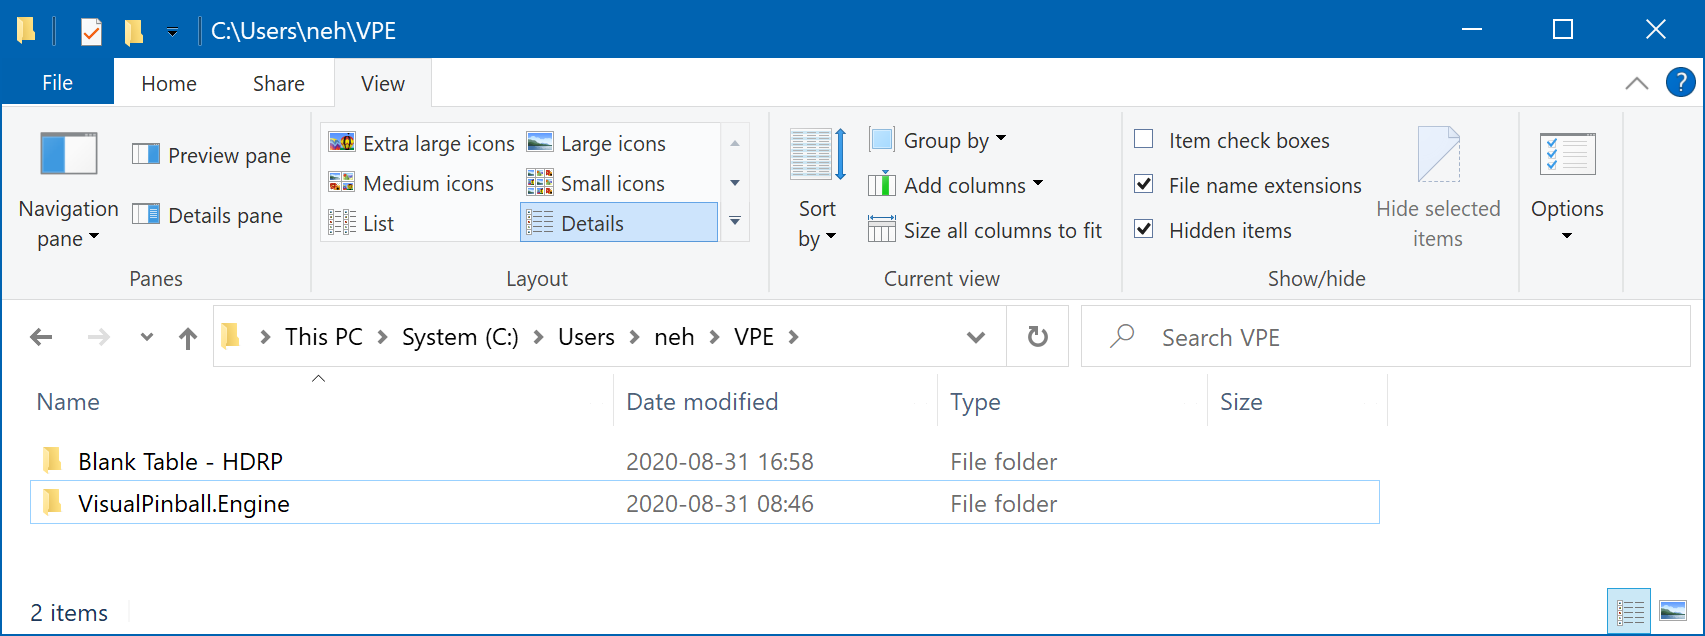
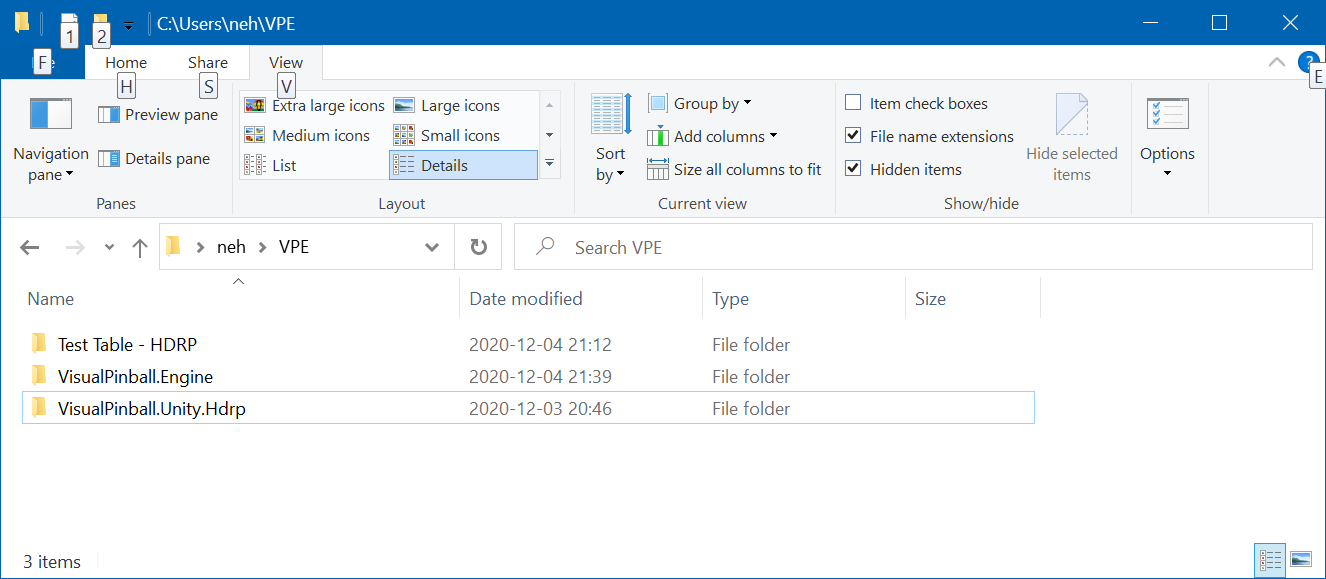
rp: Update documentation.

diff --git a/VisualPinball.Unity/Documentation~/creators-guide/setup/running-vpe.md b/VisualPinball.Unity/Documentation~/creators-guide/setup/running-vpe.md
@@ -9,17 +9,22 @@ You should now see Visual Pinball's blank table in the Editor's scene view:
 
 ![Imported blank table](unity-imported-table.png)
 
-Now, we don't see much of our table. That's because the scene view's camera doesn't really point on it. Using the right mouse button and the `A` `W` `S` `D` keys while keeping right mouse button pressed, fly somewhere you have a better view of the table.
+Now, we don't see much of our table. That's because the scene view's camera doesn't really point on it. Using the right mouse button in the *Scene View* and the `A` `W` `S` `D` keys while keeping right mouse button pressed, fly somewhere you have a better view of the table.
 
 > [!TIP]
 > Check Unity's documentation on [Scene view navigation](https://docs.unity3d.com/Manual/SceneViewNavigation.html) for a more complete list of ways to move the camera around the scene.
 
-Now that you have the camera of the scene view somewhat aligned.
+Now that we have the camera of the scene view somewhat aligned, we still can't see much!
+
+![Imported blank table](unity-imported-table-ugly-gizmos.png)
+
+These orange artifacts is what Unity calls [Gizmos](https://docs.unity3d.com/Manual/GizmosMenu.html). They are enabled by default, and since VPE uses icons for its playfield elements, they are all over the place. In order to get rid of them, click on the *Gizmos* dropdown and de-select them by clicking on the icon next to the check box. Sorry, we're looking into a way of deactivating them automatically.
+
+Since a pinball table is a relatively small object, the icons are huge when working on a table, so you the top slide to shrink them down a bit.
 
 ![Scene view camera on table](unity-imported-table-aligned.png)
 
-> [!TIP]
-> A pinball table is a relatively small object, so Unity's "gizmo" icons marking scene objects are huge. You can make them smaller with the [Gizmos menu](https://docs.unity3d.com/Manual/GizmosMenu.html) by using the *3D Icons* slider.
+Now that's better!
 
 The view in the scene tab is not the camera used in game. The *Scene View* really allows you to fly anywhere, zoom in on things you're working on, switch from orthagonal view to perspective, and so on. It's where you get work done.
 
@@ -30,11 +35,17 @@ This camera can be moved [using Unity's gizmos](https://docs.unity3d.com/Manual/
 > [!TIP]
 > A quick way to fix the game camera is to align it with the scene view camera. To do that, select the camera in the hierarchy, then click on the *GameObject* menu and select *Align with view*.
 
-Now, click on the play button. This will run your scene. Test that the shift keys move the flippers. Press `B` to add a new ball. If it's not already choppy, it will get after a dozen or so balls, because VPE currently doesn't destroy them.
+One last thing we need to do before playing is enable version 2 of the [Hybrid Renderer](https://docs.unity3d.com/Packages/com.unity.rendering.hybrid@0.10/manual/index.html) we're using. Go to *Edit -> Project Settings*, select *Player* on the left, scroll down a bit on the right and add `ENABLE_HYBRID_RENDERER_V2` under *Script Define Symbols*. Then click on *Apply* and close the window.
 
-The choppiness is also due to running the game inside the editor, fetching data during gameplay, and the code not being optimized.
+![Enable hybrid renderer](unity-settings-hybridv2.png)
 
-This should all go away if you choose *Build and Run* under the *File* menu. Running it as "build" should give you significantly smoother gameplay.
+Now, click on the play button. This will run your scene. Test that the shift keys move the flippers. `ENTER` will launch a ball. If you expand *Table1* in the hierarchy and select the *Trough*, you can watch its status in the inspector in real time. Nice!
+
+You can also right-click on the scene view tab and select *Maximize*.
+
+![Play Mode](unity-first-play.png)
 
 > [!TIP]
 > If you want to enter play mode more quickly, you can check the experimental play mode option described [here](https://blogs.unity3d.com/2019/11/05/enter-play-mode-faster-in-unity-2019-3/).
+
+One last thing: The game view is pretty static now. You can change that by dropping an [orbit script](https://gist.github.com/freezy/cd6a2371c90a84a7af850cab3b07b1ed) on the camera that lets you rotate and zoom in. If you're a Unity beginner, that would be your first exercise!

diff --git a/VisualPinball.Unity/Documentation~/creators-guide/setup/installing-vpe.md b/VisualPinball.Unity/Documentation~/creators-guide/setup/installing-vpe.md
@@ -45,21 +45,21 @@ If you create an HDRP project, Unity provides you with a sample scene:
 
 ![HDRP Sample Scene](unity-hdrp-default-scene.png)
 
-It's best to start by removing the unneeded objects. In the hierarchy, select:
+The sample scene is awesome but huge, so we're going to discard it and create a new one. Click on *File -> New Scene* and select the *Basic Indoors (HDRP)* template. Save it in your *Assets/Scenes* folder as `TestTable.unity`.
 
-<img alt="Sky and Fog Volume, Light Probe Group, Example Assets" width="290" src="unity-hdrp-to-delete.png" />
+In this scene there's a plane that will [Z-fight](https://en.wikipedia.org/wiki/Z-fighting) with our imported table later. Select it in the *Hierarchy* and move it down a little by setting the *Y Position* under *Transform* in the *Inspector* to `-0.1`. Your scene should now look like this:
 
-and press `delete`.
+![TestTable Scene](unity-hdrp-test-scene.png)
 
-Similarly, to clean up the project, get rid of the extra assets in the project view:
-
-<img alt="ExampleAssets, TutorialInfo" width="291" src="unity-hdrp-to-delete-assets.png" />
+Hit *Ctrl+S* to save your scene.
 
 ## VPE Source Code
 
-Now you have your project and scene set up, let's bring VPE into the project. Go to the GitHub page and [download the source code](https://github.com/freezy/VisualPinball.Engine). You can do that by clicking on the green *Code* button, and choosing *Downlaod ZIP*.
+Now you have your project and scene set up, let's bring VPE into the project. Go to the GitHub page and [download the source code](https://github.com/freezy/VisualPinball.Engine). You can do that by clicking on the green *Code* button, and choosing *Download ZIP*.
 
-As mentioned above, we recommend extracting this into the `%userprofile%\VPE\VisualPinball.Engine` folder:
+As mentioned above, we recommend extracting this into the `VPE\VisualPinball.Engine` folder. Now, since we're using the High Definition Render Pipeline, we need to download another package which contains the rendering code. This package is part of VPE but lives in a different repository. Like before, [download](https://github.com/freezy/VisualPinball.Unity.Hdrp) and extract it to your VPE folder.
+
+Your structure should now look something like this:
 
 ![File Structure](explorer-vpe-root.png)
 
@@ -69,6 +69,12 @@ In Unity, go to *Window -> Package Manager*. Click on the "plus" icon on the top
 
 This will take a moment as Unity downloads and compiles all of VPE's dependencies. If during this time, you see the following warning:
 
-![Unity Input System Warning](unity-input-system-warning.png)
+<img alt="Unity Input System Warning" width="390" src="unity-input-system-warning.png" />
 
 Click *Yes*. When complete, you should now have a *Visual Pinball* menu in the editor.
+
+Now do the same for the HDRP package. If everything went okay, you should now have these two packages showing up in the Package Manager:
+
+![Package Manager after installation](unity-packages-after-installation.png)
+
+So let's [import a table](running-vpe.md)!
